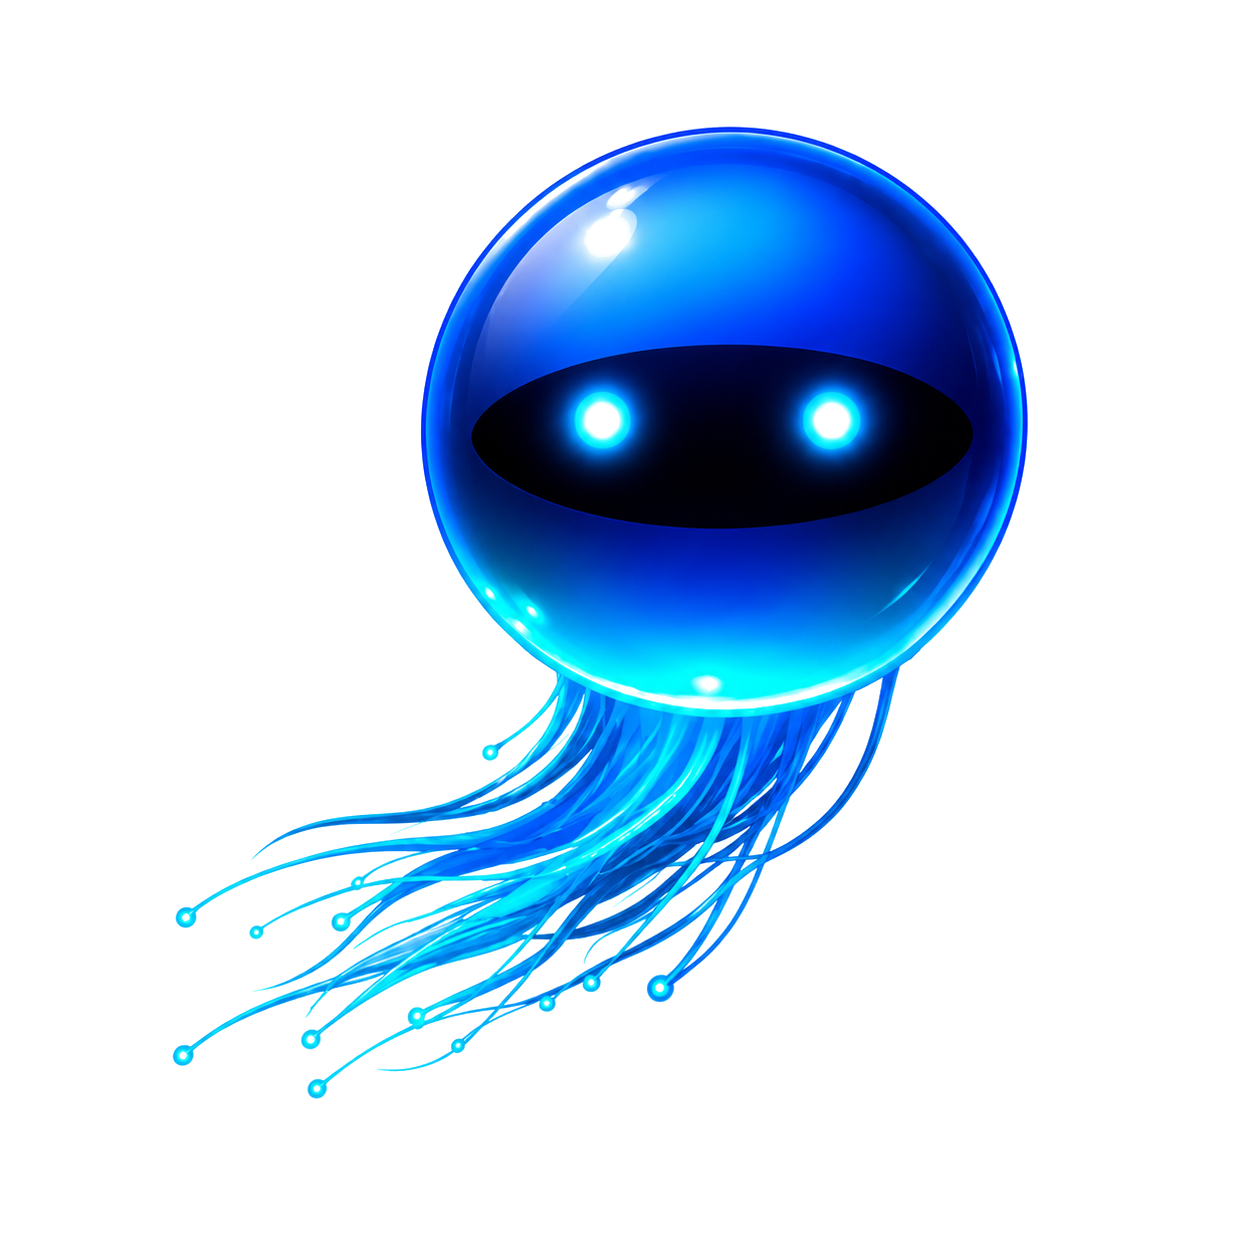
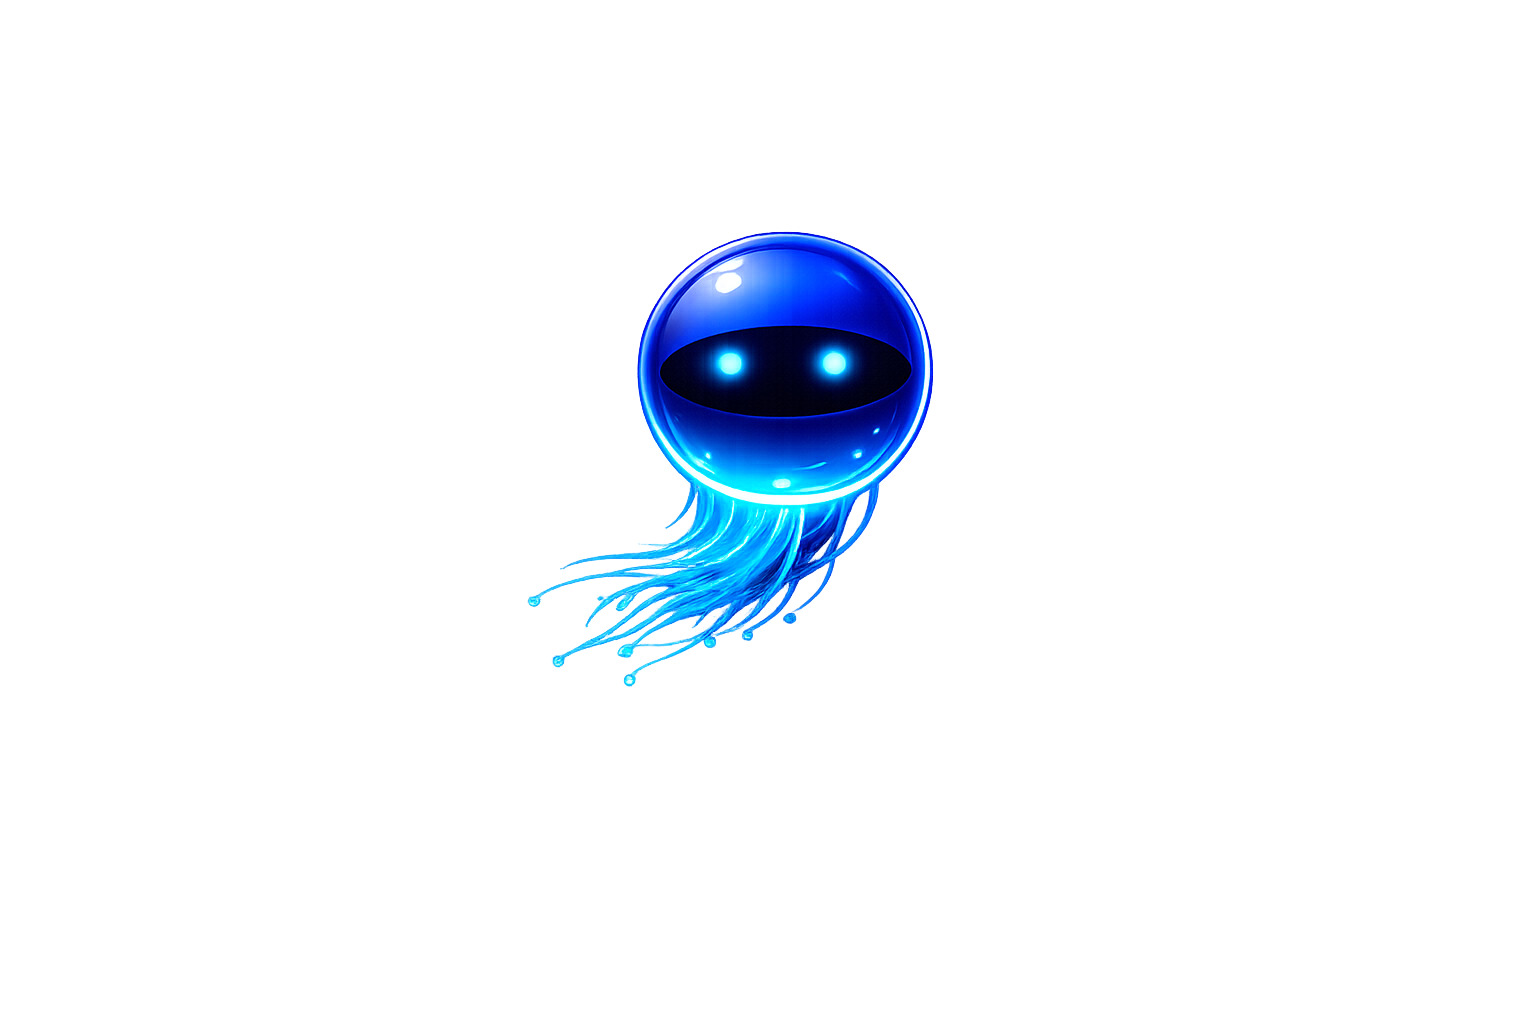
fix(brand): canonical mascot = clean transparent de-pinked mark (#501)
Replace the sticker-derived mascot + the pink-checkerboard icon export with the
new clean transparent mark (spore-host-mark-mini) across web + docs brand assets.

Changed region(s): [[0.1555, 0.0938, 0.8397, 0.875], [0.1244, 0.8125, 0.1866, 0.8438], [0.1244, 0.7188, 0.1555, 0.75]]

diff --git a/CHANGELOG.md b/CHANGELOG.md
@@ -14,6 +14,10 @@ own changelogs for CLI releases.
 ## [Unreleased]
 
 ### Changed
+- **Canonical mascot art is now the clean, transparent de-pinked mark** (replacing
+  the sticker-derived knockout and the earlier pink-checkerboard icon export).
+  Updated the brand mascot assets under `web/assets/brand/` and `docs/brand/`.
+
 - **The site nav bar now shows the real `spore ● host` wordmark image** (across
   the landing page and the developer/library page), replacing the CSS-text +
   gradient-circle lockup. Sized 45px to sit in the nav.
